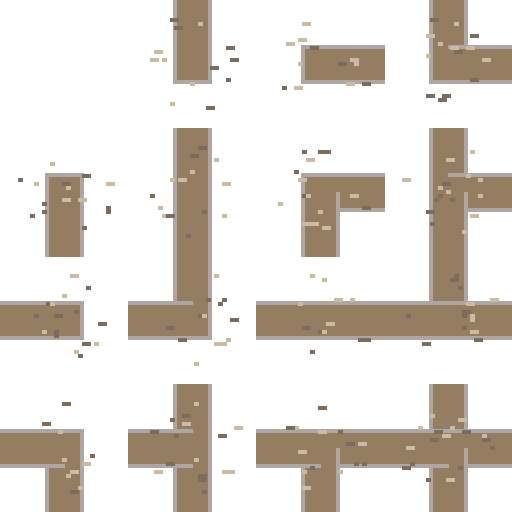
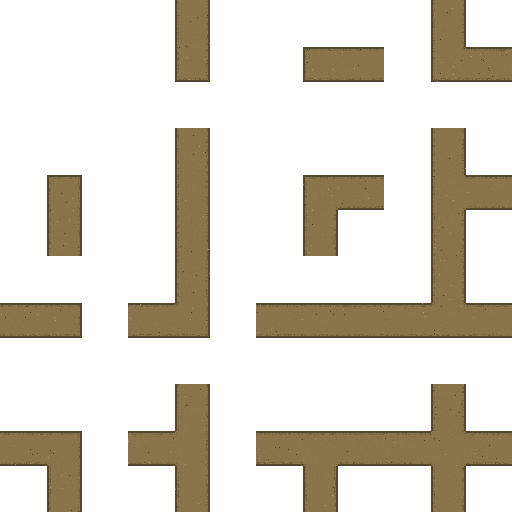
Simplify all path/road atlases and support Tiled tile transforms

diff --git a/src/data/tiledMap.ts b/src/data/tiledMap.ts
@@ -96,6 +96,15 @@ type TiledTilesetRegistry = {
 };
 
 const GID_MASK = 0x0fffffff;
+const FLIPPED_HORIZONTALLY_FLAG = 0x80000000;
+const FLIPPED_VERTICALLY_FLAG = 0x40000000;
+const FLIPPED_DIAGONALLY_FLAG = 0x20000000;
+
+type TiledTileTransform = {
+  rotation?: 0 | 90 | 180 | 270;
+  flipX?: boolean;
+  flipY?: boolean;
+};
 
 export function createVillageLayoutFromTiled(
   id: string,
@@ -247,6 +256,7 @@ function getTerrainTiles(
       y: Math.floor(index / layer.width),
       tileId: tile.tileId,
       textureKey: tile.textureKey,
+      ...getTileTransform(rawGid),
     };
 
     tileByIndex.push(placement);
@@ -330,6 +340,37 @@ function getTileReference(rawGid: number, gidToTile: Map<number, GidTileReferenc
   }
 
   return tile;
+}
+
+function getTileTransform(rawGid: number): TiledTileTransform {
+  const horizontal = (rawGid & FLIPPED_HORIZONTALLY_FLAG) !== 0;
+  const vertical = (rawGid & FLIPPED_VERTICALLY_FLAG) !== 0;
+  const diagonal = (rawGid & FLIPPED_DIAGONALLY_FLAG) !== 0;
+
+  if (!horizontal && !vertical && !diagonal) {
+    return {};
+  }
+
+  if (!diagonal) {
+    return {
+      flipX: horizontal || undefined,
+      flipY: vertical || undefined,
+    };
+  }
+
+  if (horizontal && vertical) {
+    return { rotation: 90, flipY: true };
+  }
+
+  if (horizontal) {
+    return { rotation: 90 };
+  }
+
+  if (vertical) {
+    return { rotation: 270 };
+  }
+
+  return { rotation: 90, flipX: true };
 }
 
 function getEnvironmentTint(tileId: string): TerrainTextureDefinition["tintByEnvironment"] {

diff --git a/src/render/PixiVillageRenderer.ts b/src/render/PixiVillageRenderer.ts
@@ -701,18 +701,22 @@ export class PixiVillageRenderer {
 
           sprite.alpha = layer.opacity;
 
-          if (tile.rotation) {
+          if (tile.rotation || tile.flipX || tile.flipY) {
             sprite.anchor.set(0.5);
-            sprite.rotation = (tile.rotation * Math.PI) / 180;
+            sprite.rotation = ((tile.rotation ?? 0) * Math.PI) / 180;
             sprite.x = tileX + tileSize / 2;
             sprite.y = tileY + tileSize / 2;
+            sprite.scale.set(
+              (tile.flipX ? -1 : 1) * ((tileSize + 0.5) / texture.width),
+              (tile.flipY ? -1 : 1) * ((tileSize + 0.5) / texture.height),
+            );
           } else {
             sprite.x = tileX;
             sprite.y = tileY;
+            sprite.width = tileSize + 0.5;
+            sprite.height = tileSize + 0.5;
           }
 
-          sprite.width = tileSize + 0.5;
-          sprite.height = tileSize + 0.5;
           this.cameraLayer.addChild(sprite);
         }
       }

diff --git a/src/data/villageLayouts.ts b/src/data/villageLayouts.ts
@@ -9,6 +9,8 @@ export type TerrainTilePlacement = {
   tileId: TerrainTileId;
   textureKey: TerrainTextureKey;
   rotation?: 0 | 90 | 180 | 270;
+  flipX?: boolean;
+  flipY?: boolean;
 };
 
 export type TerrainTileLayerDefinition = {
